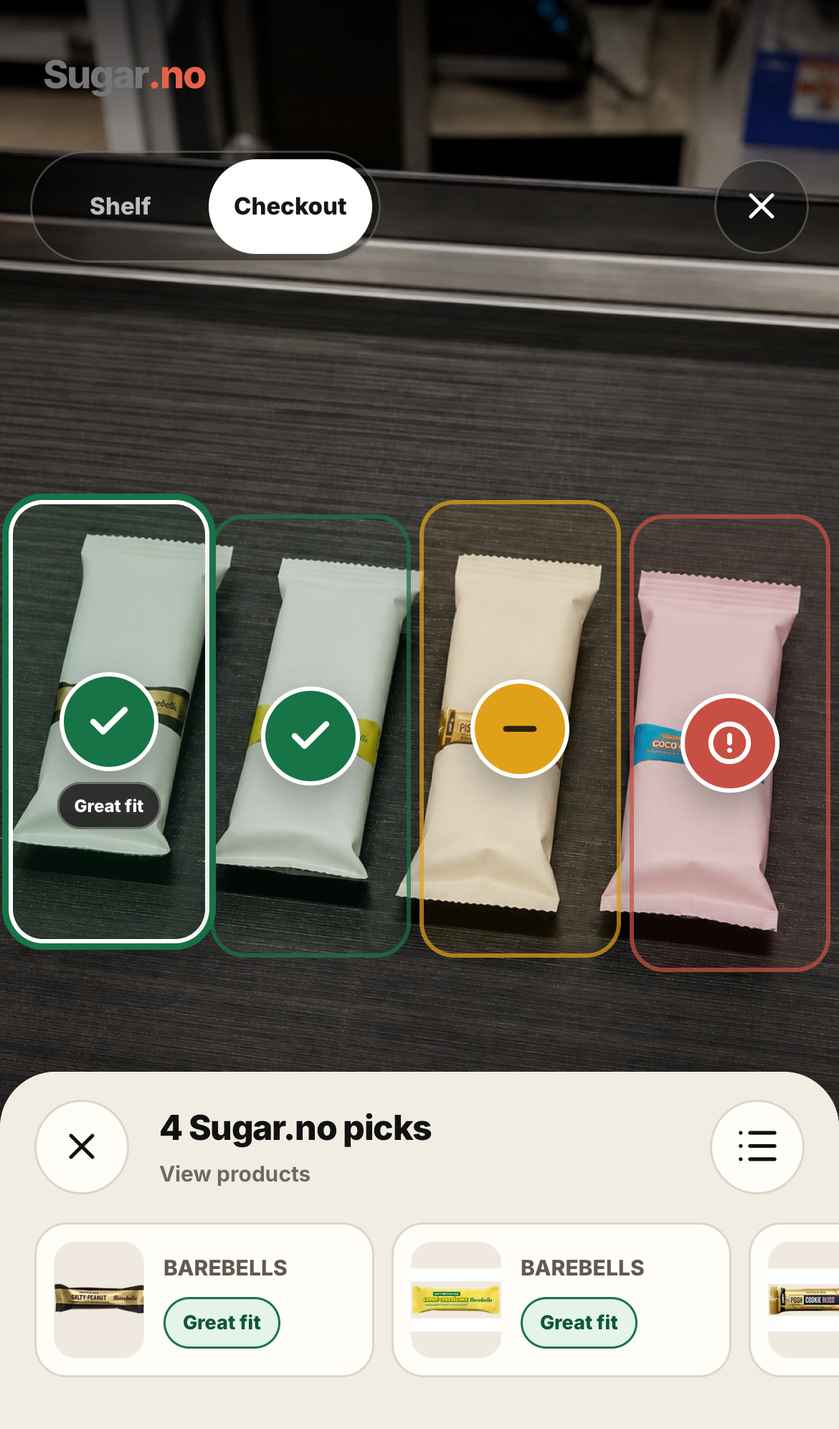
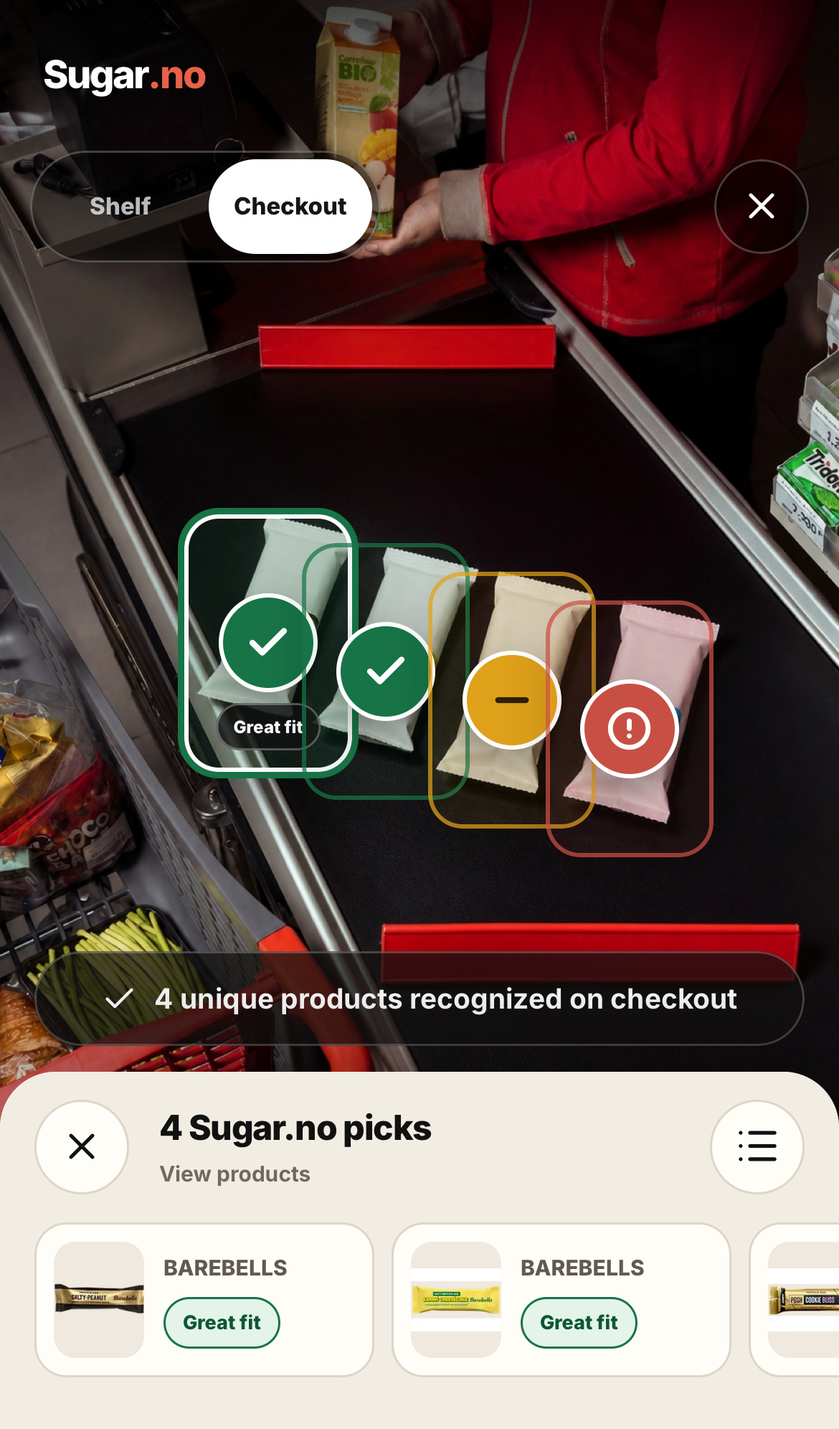
Improve checkout scene and multi-product shelf scan

diff --git a/src/server/recognition.ts b/src/server/recognition.ts
@@ -60,25 +60,25 @@ const sampleCheckout: ProductDetection[] = [
   {
     productId: "prot-bat-sal-riekst-saldin-barebells-55-g",
     confidence: 0.98,
-    box: { x: 0.01, y: 0.35, width: 0.24, height: 0.31 },
+    box: { x: 0.22, y: 0.36, width: 0.2, height: 0.18 },
     observedText: "Barebells Salty Peanut"
   },
   {
     productId: "prot-bat-barebells-lemon-cheesecake-55-g",
     confidence: 0.97,
-    box: { x: 0.25, y: 0.36, width: 0.24, height: 0.31 },
+    box: { x: 0.36, y: 0.38, width: 0.2, height: 0.18 },
     observedText: "Barebells Lemon Cheesecake"
   },
   {
     productId: "proteina-bat-cepuma-garsa-iconfit-55-g",
     confidence: 0.96,
-    box: { x: 0.5, y: 0.35, width: 0.24, height: 0.32 },
+    box: { x: 0.51, y: 0.4, width: 0.2, height: 0.18 },
     observedText: "ICONFIT Cookie Bliss"
   },
   {
     productId: "proteina-baton-barebells-coco-choco-55-g",
     confidence: 0.95,
-    box: { x: 0.75, y: 0.36, width: 0.24, height: 0.32 },
+    box: { x: 0.65, y: 0.42, width: 0.2, height: 0.18 },
     observedText: "Barebells Coco Choco"
   }
 ];
@@ -179,6 +179,29 @@ function extractPackSize(value: string): string {
   return value.match(/\b\d+(?:[.,]\d+)?\s*(?:kg|g|ml|l|cl|pcs?|gab)\b/i)?.[0] || "";
 }
 
+export function recognitionInstruction(focusMode: boolean): string {
+  const scope = focusMode
+    ? `This is a center crop after a broad scan was uncertain. Identify the most prominent readable package in the crop. ` +
+      `Repeated copies of the same package are one SKU; return it once rather than returning an empty result. `
+    : `Scan the complete frame from left to right and top to bottom. Identify every distinct clearly readable front-facing ` +
+      `packaged retail SKU, including several different products on the same shelf, up to the response limit. ` +
+      `Do not stop after the central or most prominent package. Include that package as a fallback, but also return readable ` +
+      `products elsewhere in the frame. Repeated facings of the same SKU are one product type and must be returned once. `;
+
+  return (
+    scope +
+    `Read the front label and return the exact visible brand plus one productName containing the product, variant or flavor and pack size. ` +
+    `searchQuery should repeat the identity using useful English or Latvian equivalents of foreign flavor words for retailer matching. ` +
+    `Only when a separate physical shelf price label outside the package is clearly visible and associated with that exact package, ` +
+    `set shelfPriceLabelVisible true and return its EUR price in cents, the exact observed price text including € or EUR, and a separate confidence. ` +
+    `Otherwise set shelfPriceLabelVisible false, price cents and confidence to zero, and price text to an empty string. ` +
+    `Never treat nutrition claims, pack size, deposit text or any number printed on the package as a shelf price. ` +
+    `Return an empty detections array rather than guessing when no product identity is readable. ` +
+    `Return at most one box per distinct front-facing SKU and do not enumerate repeated or blurry background packages. ` +
+    `Boxes use x, y, width and height normalized from 0 to 1.`
+  );
+}
+
 export async function recognizeProducts(input: {
   imageDataUrl?: string;
   source: ScanSource;
@@ -221,20 +244,7 @@ export async function recognizeProducts(input: {
     model,
     contents: [
       createPartFromText(
-        (focusMode
-          ? `This is a center crop after a broad scan was uncertain. Identify the most prominent readable package in the crop. ` +
-            `Repeated copies of the same package are one SKU; return it once rather than returning an empty result. `
-          : `Identify every clearly visible packaged retail product, even when it is not in a supplied catalog. ` +
-            `Always include the most prominent central readable SKU, and treat repeated copies of it as one product type. `) +
-          `Read the front label and return the exact visible brand plus one productName containing the product, variant or flavor and pack size. ` +
-          `searchQuery should repeat the identity using useful English or Latvian equivalents of foreign flavor words for retailer matching. ` +
-          `Only when a separate physical shelf price label outside the package is clearly visible and associated with that exact package, ` +
-          `set shelfPriceLabelVisible true and return its EUR price in cents, the exact observed price text including € or EUR, and a separate confidence. ` +
-          `Otherwise set shelfPriceLabelVisible false, price cents and confidence to zero, and price text to an empty string. ` +
-          `Never treat nutrition claims, pack size, deposit text or any number printed on the package as a shelf price. ` +
-          `Return an empty detections array rather than guessing when the product identity is unreadable. ` +
-          `Return at most one box per distinct front-facing SKU and do not enumerate repeated or blurry background packages. ` +
-          `Boxes use x, y, width and height normalized from 0 to 1.`
+        recognitionInstruction(focusMode)
       ),
       createPartFromBase64(base64, mimeType)
     ],

diff --git a/tests/e2e/scanner.spec.ts b/tests/e2e/scanner.spec.ts
@@ -81,9 +81,9 @@ test("checkout photo uses one multi-product scan instead of an animated product"
   await page.getByRole("button", { name: /Checkout photo/ }).click();
   await expect(page.getByRole("status")).toContainText("4 unique products recognized on checkout");
   await expect(page.getByLabel("Checkout photo scanner").locator('button[aria-label^="Open Sugar.no-rated"]')).toHaveCount(4);
-  await expect(page.getByAltText("Four protein bars on a supermarket checkout belt")).toBeVisible();
+  await expect(page.getByAltText("Four protein bars on a supermarket checkout conveyor belt beside a cashier")).toBeVisible();
   await page.waitForFunction(() =>
-    [...document.querySelectorAll<HTMLImageElement>('div[aria-label="Sample checkout photo with four supported protein snacks"] img')]
+    [...document.querySelectorAll<HTMLImageElement>('div[aria-label="Real supermarket checkout belt sample with four supported protein snacks"] img')]
       .every((image) => image.complete && image.naturalWidth > 0)
   );
   await waitForAlternativeImages(page);
@@ -215,6 +215,67 @@ test("saved images are resized client-side and fail closed without a provider ke
   await expect(page.getByRole("status")).toContainText("Live recognition needs the Gemini key");
   await expect(page.getByRole("dialog", { name: "Products from this scan" })).toHaveCount(0);
   await expect(page.getByLabel("Saved shelf or checkout photo scanner")).toBeVisible();
+});
+
+test("a broad live shelf scan keeps several different Sugar.no-rated products in one result", async ({ page }) => {
+  await page.addInitScript(() => {
+    const canvas = document.createElement("canvas");
+    canvas.width = 640;
+    canvas.height = 960;
+    const context = canvas.getContext("2d");
+    context?.fillRect(0, 0, canvas.width, canvas.height);
+    Object.defineProperty(navigator, "mediaDevices", {
+      configurable: true,
+      value: { getUserMedia: async () => canvas.captureStream(5) }
+    });
+  });
+  await unlock(page);
+
+  await page.route("**/api/recognize", async (route) => {
+    const request = route.request().postDataJSON() as { focusMode?: boolean };
+    expect(Boolean(request.focusMode)).toBe(false);
+    await route.fulfill({
+      contentType: "application/json",
+      body: JSON.stringify({
+        requestId: "multi-product-live-shelf",
+        status: "matched",
+        latencyMs: 1_200,
+        model: "gemini-3.7-flash",
+        imageStored: false,
+        detections: [
+          {
+            productId: "prot-bat-sal-riekst-saldin-barebells-55-g",
+            catalogProductId: "prot-bat-sal-riekst-saldin-barebells-55-g",
+            confidence: 0.97,
+            box: { x: 0.06, y: 0.22, width: 0.25, height: 0.48 },
+            observedText: "Barebells Salty Peanut"
+          },
+          {
+            productId: "prot-bat-barebells-lemon-cheesecake-55-g",
+            catalogProductId: "prot-bat-barebells-lemon-cheesecake-55-g",
+            confidence: 0.95,
+            box: { x: 0.37, y: 0.2, width: 0.25, height: 0.5 },
+            observedText: "Barebells Lemon Cheesecake"
+          },
+          {
+            productId: "proteina-bat-cepuma-garsa-iconfit-55-g",
+            catalogProductId: "proteina-bat-cepuma-garsa-iconfit-55-g",
+            confidence: 0.93,
+            box: { x: 0.68, y: 0.23, width: 0.25, height: 0.47 },
+            observedText: "ICONFIT Cookie Bliss"
+          }
+        ]
+      })
+    });
+  });
+
+  await page.getByRole("button", { name: "Start live camera" }).click();
+  await expect(page.getByRole("status")).toContainText("3 unique products recognized", { timeout: 10_000 });
+  const scanner = page.getByLabel("Live camera scanner");
+  await expect(scanner.locator('button[aria-label^="Open Sugar.no-rated"]')).toHaveCount(3);
+  await expect(page.getByText("3 Sugar.no picks", { exact: true })).toBeVisible();
+  await page.getByRole("button", { name: "Open product results", exact: true }).click();
+  await expect(page.getByLabel("Products in this scan").getByRole("button")).toHaveCount(3);
 });
 
 test("live camera groups repeated packs, holds the result and replaces it only after Scan again", async ({ page }) => {

diff --git a/src/components/scanner-app.tsx b/src/components/scanner-app.tsx
@@ -265,7 +265,7 @@ export function ScannerApp() {
       if (inFlightRef.current || !navigator.onLine) return;
       inFlightRef.current = true;
       setRecognitionState("scanning");
-      setStatusMessage("Reading the package…");
+      setStatusMessage("Reading visible products…");
       try {
         const response = await fetch("/api/recognize", {
           method: "POST",
@@ -385,7 +385,7 @@ export function ScannerApp() {
       await videoRef.current.play();
       setCameraState("live");
       setRecognitionState("idle");
-      setStatusMessage("Hold a package and its price label in the frame");
+      setStatusMessage("Hold products and price labels steady");
       track("scan_started", "camera");
       scanTimerRef.current = setInterval(captureStableFrame, 650);
     } catch (error) {
@@ -412,7 +412,7 @@ export function ScannerApp() {
     setRecognitionState("idle");
     setResultLocked(false);
     setResultsExpanded(false);
-    setStatusMessage("Hold a package and its price label in the frame");
+    setStatusMessage("Hold products and price labels steady");
     const video = videoRef.current;
     if (!video || !streamRef.current) {
       void startCamera();
@@ -971,11 +971,11 @@ function ShelfScene() {
 
 function CheckoutScene() {
   return (
-    <div className={styles.checkoutScene} aria-label="Sample checkout photo with four supported protein snacks">
+    <div className={styles.checkoutScene} aria-label="Real supermarket checkout belt sample with four supported protein snacks">
       <Image
         className={styles.samplePhoto}
         src="/samples/latvia-checkout.jpg"
-        alt="Four protein bars on a supermarket checkout belt"
+        alt="Four protein bars on a supermarket checkout conveyor belt beside a cashier"
         fill
         sizes="100vw"
         priority

diff --git a/src/server/recognition.test.ts b/src/server/recognition.test.ts
@@ -5,6 +5,7 @@ import {
   fitBoxToFrame,
   isTrustedShelfPriceDetection,
   matchCatalogProduct,
+  recognitionInstruction,
   recognitionConfidenceThreshold,
   recognizeProducts
 } from "./recognition";
@@ -83,6 +84,23 @@ describe("recognitionConfidenceThreshold", () => {
     expect(recognitionConfidenceThreshold(true, { FOCUSED_RECOGNITION_CONFIDENCE_THRESHOLD: "invalid" })).toBe(
       0.58
     );
+  });
+});
+
+describe("recognitionInstruction", () => {
+  it("asks the broad pass to scan the whole shelf for several distinct SKUs", () => {
+    const instruction = recognitionInstruction(false);
+    expect(instruction).toContain("complete frame from left to right and top to bottom");
+    expect(instruction).toContain("several different products on the same shelf");
+    expect(instruction).toContain("Do not stop after the central or most prominent package");
+    expect(instruction).toContain("Repeated facings of the same SKU are one product type");
+  });
+
+  it("keeps the uncertain retry focused on one centered package", () => {
+    const instruction = recognitionInstruction(true);
+    expect(instruction).toContain("center crop");
+    expect(instruction).toContain("most prominent readable package");
+    expect(instruction).not.toContain("complete frame from left to right and top to bottom");
   });
 });
 

diff --git a/docs/product-qa.md b/docs/product-qa.md
@@ -24,16 +24,17 @@ Run this check on the deployed HTTPS URL using Safari on an iPhone. Use a privat
 5. Confirm the camera owns the full browser viewport. After a match, only the compact bottom sheet may cover it; product details should appear only after explicitly opening the sheet.
 6. Point at a clear food outside the 40 curated snacks. If the exact Barbora page lists energy, protein and total sugar, confirm a marker appears and the card says `Sugar.no quick view · 2/3`; fiber must say `Not listed`, not `Lower`. If the page lacks enough nutrition, confirm the product is named without a marker or invented score.
 7. If the first broad pass is uncertain, keep one package inside the central guide. Confirm the status changes to `Trying a closer center read…` and the result appears without pressing a shutter or restarting the camera.
-8. Put several identical facings of one SKU in the frame. Confirm the status and tray count them as one unique product, not one product per package.
-9. After a successful live scan, move the phone. Confirm the captured frame and result stay fixed while being read. Tap `Scan again`, show a different product and confirm the old result is replaced rather than accumulated.
-10. With no physical shelf label in the frame, confirm no `Price check` card, retailer price or price prompt appears.
-11. Include the product and one clearly associated shelf label in the same frame. Confirm the camera price appears directly beneath the recognized product in the compact sheet and product tray. If an exact Barbora match is cheaper, confirm the compact sheet shows a one-tap `Buy cheaper` action with the online price. It must open the exact SKU directly. In the expanded comparison, confirm only the shelf price is crossed out, the current online price plus check time are shown and the action says `Buy cheaper at Barbora`.
-12. Repeat with a non-exact retailer candidate. Confirm only the shelf price remains and there is no retailer link. A Coca-Cola result must never open Pepsi.
-13. Confirm `Great fit / Moderate fit / Low fit` markers appear only for products with a numeric full badge or quick view. A visual-only Coca-Cola or Activia result should have no camera marker and should say that it was identified but not highlighted.
-14. Scan one rated product by itself. Confirm `Best fit in this scan` is absent because no comparison took place.
-15. Repeat with an ambiguous label or multiple nearby prices. Confirm Sugar.no hides the shelf price instead of guessing.
-16. Cover the lens or use poor light. Confirm the interface stays usable and does not invent nutrition.
-17. Turn on airplane mode. Confirm that the preview stays local and recognition pauses with an offline message.
+8. Point at a shelf containing at least three different front-facing readable products. Confirm one broad pass returns several distinct products at once rather than only the center package; up to eight distinct SKUs may be returned.
+9. Put several identical facings of one SKU in the frame. Confirm the status and tray count them as one unique product, not one product per package.
+10. After a successful live scan, move the phone. Confirm the captured frame and result stay fixed while being read. Tap `Scan again`, show a different product and confirm the old result is replaced rather than accumulated.
+11. With no physical shelf label in the frame, confirm no `Price check` card, retailer price or price prompt appears.
+12. Include the product and one clearly associated shelf label in the same frame. Confirm the camera price appears directly beneath the recognized product in the compact sheet and product tray. If an exact Barbora match is cheaper, confirm the compact sheet shows a one-tap `Buy cheaper` action with the online price. It must open the exact SKU directly. In the expanded comparison, confirm only the shelf price is crossed out, the current online price plus check time are shown and the action says `Buy cheaper at Barbora`.
+13. Repeat with a non-exact retailer candidate. Confirm only the shelf price remains and there is no retailer link. A Coca-Cola result must never open Pepsi.
+14. Confirm `Great fit / Moderate fit / Low fit` markers appear only for products with a numeric full badge or quick view. A visual-only Coca-Cola or Activia result should have no camera marker and should say that it was identified but not highlighted.
+15. Scan one rated product by itself. Confirm `Best fit in this scan` is absent because no comparison took place.
+16. Repeat with an ambiguous label or multiple nearby prices. Confirm Sugar.no hides the shelf price instead of guessing.
+17. Cover the lens or use poor light. Confirm the interface stays usable and does not invent nutrition.
+18. Turn on airplane mode. Confirm that the preview stays local and recognition pauses with an offline message.
 
 ## Saved image and privacy
 

diff --git a/README.md b/README.md
@@ -13,6 +13,7 @@ The app is a working mobile-first web/PWA concept with:
 - a private access-code gate;
 - a brand-only scanner header without a persistent private-demo label; access remains protected by the gate;
 - automatic live-camera frame sampling after the user grants permission;
+- full-frame shelf recognition that asks for up to eight distinct readable SKUs in one pass, while repeated facings of one SKU remain grouped;
 - one recognition API for camera, saved images, a deterministic four-item shelf photo and a four-item checkout photo;
 - a reproducible index of 19,076 Barbora Latvia product pages for package naming and retailer lookup;
 - a curated nutrition catalog of 40 protein snacks, including 10 golden products with independently sourced fiber and a deterministic three-signal category badge;
@@ -41,7 +42,7 @@ The scanner remains the primary surface after recognition. A 166 px bottom sheet
 
 Repeated facings are grouped by verified catalog ID, exact retailer SKU or normalized brand/product identity. After a successful live-camera scan, the captured frame and result are held while the user reads. `Scan again` clears the previous result and resumes analysis for the next product; detections from different moments are not accumulated into one tray.
 
-Live camera recognition starts with the full scene. If that broad pass returns no supported detection, the next stable frame is automatically cropped to the central guide and analysed with a focused prompt and a lower `0.58` identity threshold. Successful boxes are mapped back to the full camera coordinates. This preserves broad shelf comparison first while giving a clear central package a second path without requiring a shutter button or another user action.
+Live camera recognition starts with the full scene. The broad prompt explicitly scans the shelf left-to-right and top-to-bottom, returns up to eight distinct readable front-facing SKUs and does not stop after the central package; repeated facings are grouped by identity. If that broad pass returns no supported detection, the next stable frame is automatically cropped to the central guide and analysed with a focused prompt and a lower `0.58` identity threshold. Successful boxes are mapped back to the full camera coordinates. This preserves multi-product shelf comparison first while giving one clear central package a second path without requiring a shutter button or another user action.
 
 The implementation keeps a deterministic internal comparison score for ranking:
 
@@ -196,7 +197,7 @@ GitHub `main` is the release source. `COMMIT_SHA` is refreshed before a direct C
 
 ## Sample-scene assets
 
-`public/samples/latvia-shelf.jpg` and `public/samples/latvia-checkout.jpg` are AI-generated concept photos created for this private prototype. They deliberately contain no Sugar.no overlays; the app renders every marker and selection state from the recognition response. These images make the interaction reproducible without third-party credentials, but they do not measure recognition accuracy.
+`public/samples/latvia-shelf.jpg` and `public/samples/latvia-checkout.jpg` are AI-generated or AI-composited concept photos created for this private prototype. The checkout fixture uses [Enkhjin photography's supermarket-belt photo on Unsplash](https://unsplash.com/photos/groceries-are-on-a-conveyor-belt-at-a-checkout-jng9usOa_J0) as its licensed environment reference, then places the four demo snack packs on the belt beside the cashier. Neither sample contains baked-in Sugar.no overlays; the app renders every marker and selection state from the recognition response. These images make the interaction reproducible without third-party credentials, but they do not measure recognition accuracy.
 
 ## Known limitations
 

diff --git a/docs/acceptance.md b/docs/acceptance.md
@@ -12,6 +12,7 @@ Status reflects reproducible evidence in this repository, not the intended final
 | Camera occupies the primary viewport area | The scanner stage owns `100dvh`; WebKit asserts at least 95% of a 375×812 viewport, while the compact result sheet overlays only the bottom edge | Pass locally |
 | Result sheet expands into a page | Recognition opens a compact 166 px sheet with product thumbnails; an explicit control expands it to an accessible full-height dialog, hides background controls from focus and collapses back to camera | Pass locally |
 | Uncertain broad frame gets a focused retry | Mobile Safari regression returns `not_sure` for the broad pass, verifies the automatic `focusMode=true` request, remaps its box and then holds the matched result; threshold unit tests cover broad 0.72 versus focused 0.58 | Pass locally |
+| Several products from one live shelf frame | Broad recognition is instructed to scan the complete frame and return up to eight distinct readable front-facing SKUs; unit coverage verifies the prompt contract and Mobile Safari renders three different rated products in one held result | Pass as logic |
 | Repeated facings count once | Server and client normalize same-SKU detections; unit test merges four Coca-Cola descriptions and live-camera WebKit test renders one unique product | Pass locally |
 | Live result remains readable | Successful camera recognition pauses the frame and requests until `Scan again`; WebKit test confirms no background replacement and then a clean new result | Pass locally |
 | Conflicting retailer brand | Coca-Cola/Pepsi brand regression is rejected before any offer is returned; possible matches have no UI link | Pass locally |
@@ -23,7 +24,7 @@ Status reflects reproducible evidence in this repository, not the intended final
 | Badge calculation and missing-data rule | Unit tests cover category percentiles, EU-reference bands, solid/liquid sugar thresholds, partial fiber, adult pages and no-data pages | Pass |
 | Exact Barbora link and current price | Live page parser, brand guard, candidate-margin tests and UI end-to-end assertions allow only an exact SKU to drive the `Cheaper at Barbora` action or crossed-out shelf price | Pass locally |
 | Shelf demo | One photorealistic concept image returns four deterministic detections with compact icon markers and a collapsed thumbnail sheet; the legend and product comparison appear on expansion | Pass as concept |
-| Checkout demo | One photorealistic checkout concept image returns four deterministic detections through the same camera-first overlay and expandable-sheet interaction as the shelf | Pass as concept |
+| Checkout demo | One photorealistic checkout-belt concept image clearly shows the cashier/register context and returns four aligned deterministic detections through the same camera-first overlay and expandable-sheet interaction as the shelf | Pass as concept |
 | Shelf/checkout navigation | A segmented control changes between both sample scenes without closing the scanner | Pass locally |
 | No save actions | Product, checkout and Similar options results expose comparison and retailer actions without Save buttons or a persisted product list | Pass locally |
 | Repeated-frame de-duplication | Unit tests retain one tray entry per SKU across repeated live-camera detections | Pass as logic |

diff --git a/Bugs.md b/Bugs.md
@@ -12,6 +12,8 @@ This file is the running record of scanner defects found and resolved.
 
 ## Resolved
 
+- **2026-08-24: the checkout fixture showed a dark surface but did not clearly read as the moving belt beside a cashier.** The replacement scene now shows the real checkout context, belt dividers, register/cashier and four separate demo snack packs. Detection boxes were re-aligned to the new packages and the Mobile Safari screenshot verifies all four overlays.
+- **2026-08-24: the broad camera instruction could bias Gemini toward one central package instead of the whole shelf.** The broad pass now scans the full frame left-to-right and top-to-bottom, asks for up to eight distinct readable front-facing SKUs and explicitly continues beyond the central package. A separate WebKit regression proves three different rated products survive in one live-camera result; identical facings are still de-duplicated.
 - **2026-08-24: price comparison was hidden too deep and generic source disclosures cluttered the investor flow.** A trusted camera price now appears beneath the recognized product in the compact sheet and tray. For a cheaper exact Barbora SKU, the shelf price is crossed out and the result says `Cheaper at Barbora` with a `Buy cheaper at Barbora` action. The visible `Data sources and limits` and `How this result was made` accordions were removed; the underlying confidence, exact-SKU and no-invention safeguards remain enforced in code and documented internally.
 - **2026-08-21: save controls competed with the core scan and comparison flow.** Product, checkout and Similar options save buttons, the local saved list and its toast were removed. Recognition, comparison and exact retailer actions are unchanged.
 - **2026-08-21: scanner fit labels differed from the main Sugar.no product.** All current markers, pills, legends, cards and accessibility labels now use the shared `Great fit`, `Moderate fit` and `Low fit` taxonomy from one presentation source; score thresholds and colors are unchanged.

diff --git a/docs/investor-demo-script.md b/docs/investor-demo-script.md
@@ -28,13 +28,13 @@ Open the Barbora CTA, then return.
 
 “The retailer action is deliberately secondary. If the camera can associate a shelf label with an exact package, its price appears under the recognized product and we check the live Barbora page. We cross out the shelf price and say `Buy cheaper at Barbora` only when the exact online SKU is genuinely cheaper. With one retailer this is a Barbora price check, not the best price, and we do not claim affiliate revenue that does not exist.”
 
-For the optional live-camera moment, show several facings of one SKU. Explain that repeated cans count as one product type and that the successful frame is held while the viewer reads. Tap `Scan again` before showing a different product; the new scan replaces the old one instead of accumulating it.
+For the optional live-camera moment, first show several different products across one shelf and explain that the broad pass scans the whole frame rather than only the center. Then show several facings of one SKU: repeated cans count as one product type and the successful frame is held while the viewer reads. Tap `Scan again` before showing a different product; the new scan replaces the old one instead of accumulating it.
 
 ## Checkout
 
 Tap `Checkout photo`.
 
-“Checkout uses exactly the same comparison behavior as the shelf: one view of the whole belt, several detected packages and colored overlays on the image. We do not tell someone to undo a purchase, shame the basket or add another action to save a product.”
+“Checkout uses exactly the same comparison behavior as the shelf: one view of the real conveyor belt beside the cashier, four detected packages and colored overlays on the image. We do not tell someone to undo a purchase, shame the basket or add another action to save a product.”
 
 ## Close
 

diff --git a/docs/design-reference.md b/docs/design-reference.md
@@ -7,4 +7,8 @@ The redesign uses two public interaction references without copying their brandi
 
 Sugar.no applies those patterns to relative protein, fiber and total-sugar comparison. It uses the same product language as the main app: `Great fit`, `Moderate fit` and `Low fit` describe the three-signal category comparison and never label food as good, bad, healthy or unhealthy.
 
+The broad camera pass follows the multi-product shelf pattern: it scans the complete frame, can return up to eight distinct readable front-facing SKUs and groups repeated facings of the same SKU. The focused center retry is only a fallback after the broad pass is uncertain.
+
+The checkout fixture must be visually unmistakable as a supermarket conveyor beside the cashier, not a generic dark tabletop. Its environment is based on [Enkhjin photography's checkout image on Unsplash](https://unsplash.com/photos/groceries-are-on-a-conveyor-belt-at-a-checkout-jng9usOa_J0); four separate demo packs are composited onto the belt so deterministic markers still point at the products shown.
+
 When several comparable rated products are present, `Best fit in this scan` is a small eyebrow heading above the leading product name. It is not a separate status pill and stays hidden for a one-product scan.
